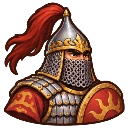
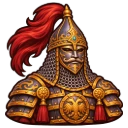
Kemik: baş alevi, göğüs kafesinde kor ışığı, kendi fırlatma hareketleri, şapka başın ucunda; Kemik ve Alp portreleri yeni tasarımdan

diff --git a/src/engine/glbhero.js b/src/engine/glbhero.js
@@ -1,5 +1,5 @@
 // engine/glbhero.js · Kara Koru
-// Meshy ile üretilmiş, iskeletli kahramanlar: Alp ve Kam. Varsayılan açık; adreste ?eski (ya da localStorage kk_meshy=0)
+// Meshy ile üretilmiş, iskeletli kahramanlar: Alp, Kam ve Kemik. Varsayılan açık; adreste ?eski (ya da localStorage kk_meshy=0)
 // kodla kurulmuş eski gövdeyi geri getirir. Kahraman seçiliyken eski gövde gizlenir, aynı boya ölçeklenmiş GLB konur.
 // Meshy iskeletlerinde kemik adları ortak: yürüme, koşu, zıplama, kayma, atılma, takla ve darbe klipleri Alp'in dosyalarından
 // bütün kahramanlarda oynar (KLIP); kahramana özel olan yalnız model, elindekiler ve saldırı/duruş klipleri (KAHRAMAN).
@@ -27,15 +27,16 @@ const KLIP = { yuru: U('alp_yuru'), hareket: U('alp_hareket'), hareket2: U('alp_
 const URLS = {
   alp: { model: U('alp'), es: { kilic: U('alp_kilic'), kalkan: U('alp_kalkan') } },
   kam: { model: U('kam'), es: { asa: U('kam_asa') }, klip: U('kam_buyu') },
-  kemik: { model: U('kemik') }
+  kemik: { model: U('kemik'), klip: U('kemik_at') }
 };
 // kahraman ayarı. sal: saldırı kliplerinin oyunun 0.42 sn'lik saldırı ilerlemesine eşlenen aralığı (sn).
 // ayak, kosUst: kahramanın kendi koşu klibi varsa onun ayak hızı ve hızlanma üst sınırı (yoksa ortak AYAK, KOS_UST).
+// sapkaUc: şapka başın uç eklemine oturur (başlığın köşe ortalaması yana kayıyor).
 // basOlcu: boy eski gövdenin kutusuna göre değil baş eklemine göre eşlenir (eski gövdede baştan uzun asa ya da boynuz varsa).
 const KAHRAMAN = {
   alp: { sal: { atkR: [.12, .95], atkL: [.3, 1.2] }, ayak: { walk: .5, run: 3.7 } },
   kam: { sal: { atkR: [.3, 1.3], atkL: [.75, 1.65] }, basOlcu: 1, ayak: { walk: .7, run: 1.65 }, kosUst: 1.65 },
-  kemik: { ayak: { walk: .52, run: 3.7 } }
+  kemik: { sal: { atkR: [1.1, 1.9], atkL: [3.1, 3.85] }, sapkaUc: 1, ayak: { walk: .52, run: 3.7 } }
 };
 // kliplerin kendi ayak hızı (boy/sn): oyunda sabit hızla ilerletilen modelde yerdeki ayağın kaymasını en aza indiren
 // değer tarandı (tools/meshy-oyun.mjs ölçümü). Kalan ~%35, bileğin topuktan parmağa yuvarlanması
@@ -103,6 +104,12 @@ function ortak(k) {
         // kendi klipleri. Koşu da kendi klibi: ortak hızlı koşu gövdeyi 50° öne yatırır, bu dik koşar (10°)
         const by = n => kg.animations.find(a => a.name == n);
         C = { ...C0, combat: C0.idle, ...kok({ atkR: by('Asa_Kaldir'), atkL: by('Asa_It'), run: by('Kos') }) };
+      }
+      if (k == 'kemik') {
+        // elinde bir şey yok: oyundaki duruş doğal bekleme (kılıç-kalkan gardı boş elle yumruk dövüşü gibi duruyordu); saldırılar
+        // Kemik'in kendi klipleri: omuz üstünden fırlatma ve yukarıdan aşağı savurma
+        const by = n => kg.animations.find(a => a.name == n);
+        C = { ...C0, combat: C0.idle, ...kok({ atkR: by('Firlat'), atkL: by('Vur') }) };
       }
       const O = { C };
       es.forEach(([ad], i) => (O[ad] = E[i].scene));
@@ -378,22 +385,83 @@ function takAlp({ O, root, bone, wp, ileri, sol, yuk, gq, h0, sk, sapka, gp }) {
 export const ASA = { boy: 1.15, tut: .47 };
 // denetim: test derlemesinde adresle denenir (?asayan=.34&asayuk=.6)
 
-// ---- Kemik: elinde bir şey yok (kemikleri fırlatır). Göğüs kafesinin içinde ve göz çukurlarında kor ışığı: toplamalı ışıma,
-// göğüs ve baş kemiklerine bağlı (dokudaki turuncu boya gölgede sönük kalıyor; ışık kaburgaların arasından görünür)
+// ---- Kemik: elinde bir şey yok (kemikleri fırlatır). Göğüs kafesinin içinde ve göz çukurlarında kor ışığı, başın çevresinde
+// yükselen alev dilleri: toplamalı ışıma, göğüs ve baş kemiklerine bağlı (dokudaki turuncu boya gölgede sönük kalıyor). Alev
+// dilleri her karede dünya uzayında yukarı yükselir (alevTick); arkadan başlığın üstünden, önden yüzün çevresinden görünür.
+export const ALEV = { n: 18, cap: .086, yuk: .1, boy: .17, en: .085, taban: -.045, hiz: 1.1, op: .95 };
+// alev dili dokusu: altı yuvarlak, ucu sivri damla; kenara doğru saydamlaşır (beyaz: rengi malzeme verir)
+let alevDoku = null;
+function alevD() {
+  if (alevDoku) return alevDoku;
+  const W = 48, H = 96, cv = document.createElement('canvas');
+  cv.width = W;
+  cv.height = H;
+  const cx = /** @type {CanvasRenderingContext2D} */ (cv.getContext('2d')), d = cx.createImageData(W, H);
+  for (let j = 0; j < H; j++) for (let i = 0; i < W; i++) {
+    const y = 1 - (j + .5) / H, x = Math.abs((i + .5) / W * 2 - 1),
+      w = Math.pow(1 - y, .75) * Math.min(1, Math.sqrt(y / .2)) * .92, q = w > 0 ? x / w : 9, a = q >= 1 ? 0 : Math.pow(1 - q * q, 1.4) * Math.min(1, (1 - y) * 3), k = (j * W + i) * 4;
+    d.data[k] = d.data[k + 1] = d.data[k + 2] = 255;
+    d.data[k + 3] = a * 255;
+  }
+  cx.putImageData(d, 0, 0);
+  alevDoku = new T.CanvasTexture(cv);
+  alevDoku.colorSpace = T.SRGBColorSpace;
+  return alevDoku;
+}
 function takKemik({ bone, wp, ileri, h0, sk }) {
-  const f = SKINF[sk], c = new T.Color(1, .5, .14);
-  if (f) { const r = f(c.r, c.g, c.b); c.setRGB(Math.min(1, r[0]), Math.min(1, r[1]), Math.min(1, r[2])); }
-  const isik = (kemik, yer, boy, op) => {
-    const o = new T.Sprite(new T.SpriteMaterial({ map: HALO, color: c, transparent: true, opacity: op, blending: T.AdditiveBlending, depthWrite: false, fog: true }));
+  const f = SKINF[sk], renk = (r, g, b) => {
+    const x = f ? f(r, g, b) : [r, g, b];
+    return new T.Color().setRGB(Math.min(1, x[0]), Math.min(1, x[1]), Math.min(1, x[2]), T.SRGBColorSpace);
+  };
+  const c = renk(1, .5, .14);
+  const isik = (kemik, yer, boy, op, renk = c) => {
+    const o = new T.Sprite(new T.SpriteMaterial({ map: HALO, color: renk, transparent: true, opacity: op, blending: T.AdditiveBlending, depthWrite: false, fog: true }));
     kemik.updateWorldMatrix(true, false);
-    o.position.copy(kemik.worldToLocal(yer));
+    o.position.copy(kemik.worldToLocal(yer.clone()));
     o.scale.setScalar(boy / kemik.getWorldScale(new T.Vector3()).x);
     kemik.add(o);
     return o;
   };
-  const g = bone('Spine02'), bas = bone('Head');
-  if (g) isik(g, wp('Spine02').addScaledVector(ileri, h0 * .07), h0 * .42, .9);
-  if (bas) isik(bas, wp('Head').addScaledVector(ileri, h0 * .1).add(new T.Vector3(0, h0 * .05, 0)), h0 * .2, .85);
+  // Meshy iskeletinde omurga aşağıdan yukarı Spine02, Spine01, Spine: göğüs kafesinin ortası son ikisinin arasında
+  const g = bone('Spine'), bas = bone('Head');
+  // göğüs: kaburgaların önünde küçük parlak çekirdek, içinde geniş hale
+  if (g && bone('Spine01')) {
+    const orta = wp('Spine01').lerp(wp('Spine'), .55);
+    isik(g, orta.clone().addScaledVector(ileri, h0 * .085), h0 * .15, .9, renk(1, .62, .2));
+    isik(g, orta.addScaledVector(ileri, h0 * .03), h0 * .36, .6);
+  }
+  if (!bas) return;
+  const merkez = wp('Head').add(new T.Vector3(0, h0 * .055, 0));
+  isik(bas, merkez.clone().addScaledVector(ileri, h0 * .075), h0 * .17, .9);
+  // alev dilleri: başlığın çevresinde halka; sırayla doğar, yükselirken içe kapanıp incelir. Dıştaki turuncu gövde düz karışım
+  // (açık zeminde de turuncu kalır), içteki sarı öz toplamalı
+  const ks = bas.getWorldScale(new T.Vector3()).x, diller = [], c0 = renk(1, .62, .1), c1 = renk(.9, .14, .02), oz = renk(1, .85, .35);
+  for (let i = 0; i < ALEV.n; i++) {
+    const ic = i % 4 == 3,
+      o = new T.Sprite(new T.SpriteMaterial({ map: alevD(), color: (ic ? oz : c0).clone(), transparent: true, opacity: 0, blending: ic ? T.AdditiveBlending : T.NormalBlending, depthWrite: false, fog: true }));
+    o.center.set(.5, .08);
+    bas.add(o);
+    diller.push({ o, ic, a: i / ALEV.n * Math.PI * 2 + (i % 2) * .5, f: (i * .618) % 1, r: ic ? .55 : .85 + ((i * 7) % 5) * .06 });
+  }
+  bone('RightHand').userData.alev = { bas, diller, m: bas.worldToLocal(merkez.clone().addScaledVector(ileri, h0 * .02)), h: h0 / ks, c0, c1, t: 0 };
+}
+const _aq = new T.Quaternion(), _au = new T.Vector3(), _ax = new T.Vector3(), _az = new T.Vector3();
+function alevTick(A, dt) {
+  A.t += dt;
+  // dünya yukarısı ve yatay eksenler başın kendi uzayında: baş eğilse de alev dik yükselir
+  A.bas.getWorldQuaternion(_aq).invert();
+  _au.set(0, 1, 0).applyQuaternion(_aq);
+  _ax.set(1, 0, 0).applyQuaternion(_aq);
+  _az.set(0, 0, 1).applyQuaternion(_aq);
+  const h = A.h;
+  for (const d of A.diller) {
+    const u = (A.t * ALEV.hiz * (.8 + d.r * .3) + d.f) % 1, r = ALEV.cap * h * d.r * (1 - u * .5),
+      sal = Math.sin(A.t * 9 + d.a * 3) * .014 * h * u, k = Math.sin(Math.PI * Math.pow(u, .6)), b = d.ic ? .7 : 1;
+    d.o.position.copy(A.m).addScaledVector(_ax, Math.cos(d.a) * r + sal).addScaledVector(_az, Math.sin(d.a) * r).addScaledVector(_au, (ALEV.taban + u * ALEV.yuk) * h);
+    d.o.scale.set(ALEV.en * h * b * (1 - u * .45), ALEV.boy * h * b * (.55 + k * .6), 1);
+    d.o.material.opacity = ALEV.op * k;
+    if (!d.ic) d.o.material.color.copy(A.c0).lerp(A.c1, u * u);
+  }
 }
 
 // ---- Kam: asa sağ yumrukta, yumruğun deliğinden geçer (delik dinlenme duruşunda öne bakar, başparmak önde: Alp'in kılıcı gibi).
@@ -496,7 +564,7 @@ export function glbHero(H, key) {
     // şapka: eski gövdenin baş kemiğinden yenisinin başına, miğferin tepesine
     if (hedef.hat) {
       const taban = hedef.g.getWorldPosition(new T.Vector3()).y - gy0 + b0.min.y,
-        ucK = ay.basOlcu && bone('head_end') ? wp('head_end') : null,
+        ucK = (ay.basOlcu || ay.sapkaUc) && bone('head_end') ? wp('head_end') : null,
         bas = ucK || tepeOrta(root, taban + h0 * .86) || wp('Head'), tepe = ucK || new T.Vector3(bas.x, taban + h0 * .93, bas.z);
       tak(hedef.hat, bone('Head'), tepe, yuk, hedef.hat.getWorldScale(new T.Vector3()).x);
       hedef.hat.visible = true;
@@ -518,6 +586,7 @@ export function glbHero(H, key) {
     { const el = bone('RightHand'); if (el && el.userData.asa) /** @type {any} */ (G).asa = el.userData.asa; }
     { const el = bone('RightHand'); if (el && el.userData.sorguc) /** @type {any} */ (G).sorguc = el.userData.sorguc; }
     { const el = bone('RightHand'); if (el && el.userData.kalkan) /** @type {any} */ (G).kalkan = el.userData.kalkan; }
+    { const el = bone('RightHand'); if (el && el.userData.alev) /** @type {any} */ (G).alev = el.userData.alev; }
     // denetim araçları için (tools/meshy-el.mjs): duruşu dondurup tek klip anı göstermek. Yayın derlemesinde pencereye açılmaz
     if (__KOPRU__) /** @type {any} */ (window).__glb = G, /** @type {any} */ (window).__T = T; // __T: denetim araçları three sınıflarına erişsin (tools/giris-olc.mjs)
     /** @type {any} */ (G).tick = glbTick;
@@ -563,8 +632,10 @@ const ANA = ['idle', 'combat', 'walk', 'run', 'jump', 'flip', 'slide', 'dash'];
 const sm = (a, b, x) => { const t = Math.min(1, Math.max(0, (x - a) / (b - a))); return t * t * (3 - 2 * t); };
 
 export function glbTick(dt) {
-  if (!G || G.dondur) return;
+  if (!G) return;
   if ($G.H !== G.H) return void (G = null);
+  if (/** @type {any} */ (G).alev) alevTick(/** @type {any} */ (G).alev, dt);
+  if (G.dondur) return;
   const P = $G.P || {},
     pl = $G.S == 'play',
     vm = pl ? Math.hypot(P.vx || 0, P.vz || 0) : 0,

diff --git a/docs/YOL_HARITASI.md b/docs/YOL_HARITASI.md
@@ -31,6 +31,7 @@ Bilinen açıklar (hepsi belgenin ilgili turunda ayrıntılı):
 - **Çelişkili iki sayı çözüldü (6 Kasım 2026).** 3. aşamanın ikinci ara bossu 1:30 kala (megabonk.wiki Bosses: "6:30 or 1:30 for tier 3"; eskiden 3:00). 3. silah slotu 25 gümüş kaldı: resmî yama notu (v1.0.4) görev sayısını 25 / 45 diye veriyor; gümüş fiyatında fan siteleri 25 ile 50 arasında bölünmüş, wiki dükkân sayfası "25 – 125" aralığı veriyor.
 - **Açılış yüklemesi** (10 Kasım 2026, `ui/yukle.js`): simgeler (165 resim), Alp'in modelleri ve yazı tipleri artık oyun açılmadan indirilir; ilerleme `index.html` içindeki `#yuk` ekranında gösterilir (paket inmeden de görünür). Eskiden her dosya ekranda ilk göründüğü anda isteniyordu: kartlar ve kahraman sayfası ilk açılışta boş geliyordu. Giriş ekranı açıkken indirme arkasında sürer; ağ takılırsa (12 sn ilerleme yok) oyun yine açılır. Model dosyası bir kez indirilip bellekten ayrıştırılır. İlk ziyarette menüden önce ~3,6 MB iner; sonraki açılışlar tarayıcı önbelleğinden gelir.
 - **Küsuratlı altın ve lahmacun** (11 Kasım 2026): Altın Kalkan hasar alınca seviye × 0,2 küsuratlı altın veriyordu, sayaç ondalığa dönüyordu; yuvarlanır (`game/items.js`; öteki bütün altın kaynakları zaten tam sayı). Yerdeki lahmacun öteki güçler gibi düz renkli çokyüzlüydü (kırmızı top); artık kendi ağı var: hamur, kızarmış kenar, kıyma, maydanoz, limon; eğik döner. İkisi de Unity'de aynı (`ItemHooks.cs`, `Powerups.cs`).
+- **Kemik'in eksikleri** (12 Kasım 2026, `engine/glbhero.js`): (1) Baş alevi: başlığın çevresinde 18 alev dili (`ALEV`, `alevTick`; damla biçimli doku kodla çizilir, turuncu gövde düz karışım, sarı öz toplamalı; diller sırayla doğar, dünya yukarısına yükselip içe kapanır; kostümde rengi kostüme uyar). (2) Kor ışığı göğüs kafesinin ortasına taşındı: Meshy iskeletinde omurga aşağıdan yukarı Spine02, Spine01, Spine; ışık yanlışlıkla en alttaki ekleme (bele) konmuştu. (3) Kendi saldırıları: Meshy kütüphanesinden omuz üstünden fırlatma (393) ve yukarıdan aşağı savurma (389), 6 kredi, kalan 714; `kemik_at.glb` 136 KB (`Firlat`, `Vur`; aralıklar `KAHRAMAN.kemik.sal`). Oyundaki duruş doğal bekleme (kılıç-kalkan gardı boş elle yumruk dövüşü gibi duruyordu). (4) Şapka başın uç eklemine oturur (`sapkaUc`; başlığın köşe ortalaması yana kayıyor, şapka havada duruyordu). Yedi kostüm ve altı şapka seçim ekranında denendi. (5) Portreler: `h_kemik.webp` ve `h_alp.webp` yeni tasarımlardan Codex'le yeniden çizildi (tarz örneği Kam portresi, karakter örneği `docs/model/*-on.jpg`; `tools/ikon-kes.mjs` ile 128 px). Denetim: on bir duruş dört yönden, gerçek oyun (`KI=8`: koşuda kayma 0,35, yürümede 0,11), duman testi, tip denetimi.
 - **Kemik modeli** (12 Kasım 2026, `engine/glbhero.js`): Kemik artık Meshy ile üretilmiş iskeletli model (Alp ve Kam'dan sonra üçüncü). Tasarım: Erdem'in isteği pelerinli, kemik kemik, Ghost Rider havasında bir iskelet; Codex'le üç seçenek çizildi (kurgan savaşçısı, cehennem süvarisi, hayalet koşucu), Erdem "kıyafetleri azalt" dedi, az kıyafetli üç çizimden A'yı seçti: fildişi iskeletin tamamı açıkta, altın işlemeli kızıl başlık ve omuzları örten kısa yırtık pelerin, tunç tokalı kemer, dar peştamal, çıplak kemik ayaklar (`docs/model/kemik-on.jpg`, `kemik-arka.jpg`). Üretim Kam'ınkiyle aynı: çoklu resimden model (30 kredi) → 18.000 üçgene remesh (5) → iskelet (5); toplam 40, kalan 720. İnce kemikler (kaburga araları, ön koldaki çift kemik, omurlar) ilk üretimde temiz çıktı. `kemik.glb` 2,32 MB (18.714 üçgen, renk 2048, normal 1024); açılışta inmez, son seçilen kahraman Kemik ise ya da kahraman sayfası açılınca iner. Elinde bir şey yok (kemik fırlatır); hareketlerin hepsi ortak klipler (savaş duruşu ve savuruşlar Alp'inki). Göğüs kafesinde ve yüzde kor ışığı kodla eklenir (`takKemik`, toplamalı ışıma; kaburgaların arkasında kaldığı için zayıf görünüyor). Ayak hızı `KAHRAMAN.kemik.ayak` (yürüme 0,52). Denetim: on duruş dört yönden, gerçek oyunda (`KI=8 tools/meshy-oyun.mjs`; araç kilitli kahramanın kilidini sınamada açar, yoksa oyun Alp'le açılıyordu) hata yok. Açık: Unity'de Kemik eski gövdede; kostümler ve şapka Kemik'te denenmedi; kafatası çevresinde alev yok; portre (`h_kemik.webp`) eski; gerçek telefonda denenmedi. Meshy görevleri: model 01a1cceb-99fb-7144-aefd-58e42758b648.
 - **Eldekiler gövdeye girmiyor** (11 Kasım 2026, `engine/glbhero.js`): kılıç, kalkan ve asa birçok duruşta gövdenin içinden geçiyordu (Erdem: "düzgün durmuyor, karakterin içinden geçiyorlar"). Ölçüm aracı: `tools/giris-olc.mjs` (`HERO=kam`, `AYR=1`) her duruşun birkaç anında gövdenin derili ağını düz ağa çevirir, eldeki nesnelerin köşelerinden ışın atıp içeride kalanları sayar. Önce: Alp'te kalkan yürürken köşelerinin %27'siyle bacağa ve gövdeye, beklerken %10'uyla giriyordu, kılıç yürürken ve beklerken bacaklardan geçiyordu; Kam'da asa beklerken boynuzlara, atılırken ve kayarken gövdeye giriyordu. Nedenler ve çözüm: (1) klipler eldekini bilmez, el nasıl dönerse nesne öyle döner: Alp'in sağ kolu da artık Kam'ınki gibi klipten sonra iki kemikli ters kinematikle kurulur (`sagKol`, `kilicHedef`, tutuş tablosu `KT`; saldırıda kol klibe bırakılır). İlk sürümde tablo tutma noktası veriyordu: kol dümdüz uzanıyor, ağız ön kolun devamı gibi duruyor, yumruk bilekten kırık görünüyordu (Erdem: "bilek yamuk, aşağı bakıyor"; ön kol ile ağız arası ölçüldü: 14°-35°, doğalı 90° dolayı). Şimdi tablo kolun kendisini verir (üst kol, ön kol ve ağız yönleri: dirsek bükük ve gövdenin yanında) ve ağız ön kolla 62°-112° arasında tutulur (`BILEK`): beklerken ve yürürken kol sarkık, ağız ileri; savaşta ön kol ileri, ağız ileri-yukarı; koşuda ağız yukarı; havada baş üstünde; (2) kalkan ön kolun ekseni çevresinde her karede döndürülür, yüzü gövdenin ekseninden dışarı bakar (`kalkanTut`, `KALKAN`): savaş duruşunda tepsi gibi yatıp göğse girmez; (3) nesnenin yeri kahramanın sabit yönüne değil gövdenin o anki yönüne göre verilir (`cerceve`: yatayda omuz ve kalça çizgilerinin toplamı; atılma, kayma ve taklada gövdenin üç boyutlu çerçevesi): bekleme klibinde gövde yana dönünce asa gövdeye yapışıyordu; (4) kol çözümü iki geçişli: elin dönüşü gerçek ön kol yönüne göre kurulur, bilek ters dönmez; (5) Kam'ın asası dışa hafif yatık (boynuzlardan uzak), atılırken mızrak gibi ileri, kayarken ileri ve yukarı. Kam'ın kolu da 12 Kasım'da Alp'inki gibi kol yönleriyle kuruldu (`KA`, `kolHedef`): tutma noktası verilirken kol dirseği bükülmeden dümdüz yana uzanıyor, yumruk asaya dik açıyla oturuyordu (Erdem: "eli sakat gibi, dik açı olmuş"); şimdi üst kol gövdenin yanında, dirsek bükük, ön kol ileride, bilek 62°-118° arasında. Sonra: Alp'te kılıç her duruşta %0, kalkan en çok %0,4 (bir iki köşe dirseğe değiyor); Kam'da yalnız büyü hareketinin ilk anında dört köşe bacağa değiyor (kolu klip sürer). Kalkan ayarı test derlemesinde adresle denenir (`?kalkanon=.09`); kol duruşları tablolardan (`KT`, `KA`). Unity'de Alp'in karşılığı `AlpRig` (Kam'ın yeni modeli Unity'de yok).
 - **Alp'in yeni modeli** (11 Kasım 2026, `engine/glbhero.js`): Alp, Kam'ın yöntemiyle yeniden üretildi (ilk Alp tek çizimden, 10.000 üçgen ve 1024 dokuyla yapılmıştı; Kam'ın yanında zayıf kalıyordu). Tasarım: dört çizimden Erdem'in seçtiği D, maskeli şampiyon: bıyıklı çelik yüz maskesi (Kıpçak savaş maskesi), zincir yakalık, koyu çelik ve altın levha zırh, göğüste çift başlı kartal, omuzlarda kızıl püsküller, kızıl kuşak ve şalvar, altın kakmalı kolçak ve dizlikler (`docs/model/alp-on.jpg`, `alp-arka.jpg`; Codex, Kam'ın çizimi tarz örneği verilerek). Üretim: Meshy çoklu resimden model (30 kredi) → 18.000 üçgene remesh (5) → iskelet (5); toplam 40, kalan 760. Sıkıştırma Kam'la aynı (`tools/model-sik.mjs model` + gltf-transform: renk 2048, normal 1024, WebP): `alp.glb` 2,75 MB (17.742 üçgen; eskisi 0,93 MB, açılışta indiği için ilk yükleme 1,8 MB büyüdü). Kemik adları ortak olduğu için dosya eskisinin yerine geçti: hareketler, kılıç, kalkan, kostümler ve şapka aynı kodla çalışıyor. Meshy kızıl sorgucu modele çıkarmadı (ince kıl): kodla kurulur (`sorguc`: ortada kalın bir tutam, çevresinde beş ince tel, köşe renkli boru; miğferin ucuna, baş kemiğine bağlı), koşuda ve düşerken rüzgârla kalkar, dururken salınır (`glbTick`); şapka takılıysa konmaz, kostümde rengi kostüme uyar. Yürüme ayak hızı yeni bacak oranına göre tarandı (`KAHRAMAN.alp.ayak.walk` 0,7 → 0,5: yürümede kayma oranı 0,88'den 0,44'e; koşu 3,7'de kaldı, 0,34; tarama `AYAK=y,k OLC=1 tools/meshy-oyun.mjs`). Denetim: on duruş dört yönden (`tools/meshy-el.mjs`), gerçek oyun kareleri ve telefon ekranı (`tools/meshy-oyun.mjs`), yedi kostüm ve bir şapka. Unity'de aynı model (`Models/AlpModel.glb`), sorguç `AlpRig.Sorguc`; simülatörde menüde ve oyunda görüldü. Açık: kahraman sayfasındaki portre (`h_alp.webp`) eski tasarımı gösteriyor; gerçek telefonda denenmedi. Meshy görevleri: model 01a1cba7-1cd6-758e-a68f-ada636934b52, remesh 01a1cbaa-8b05-720e-83fb-133959aa91e4, iskelet 01a1cbae-44aa-73fb-ad43-6fd6d6e94311.
